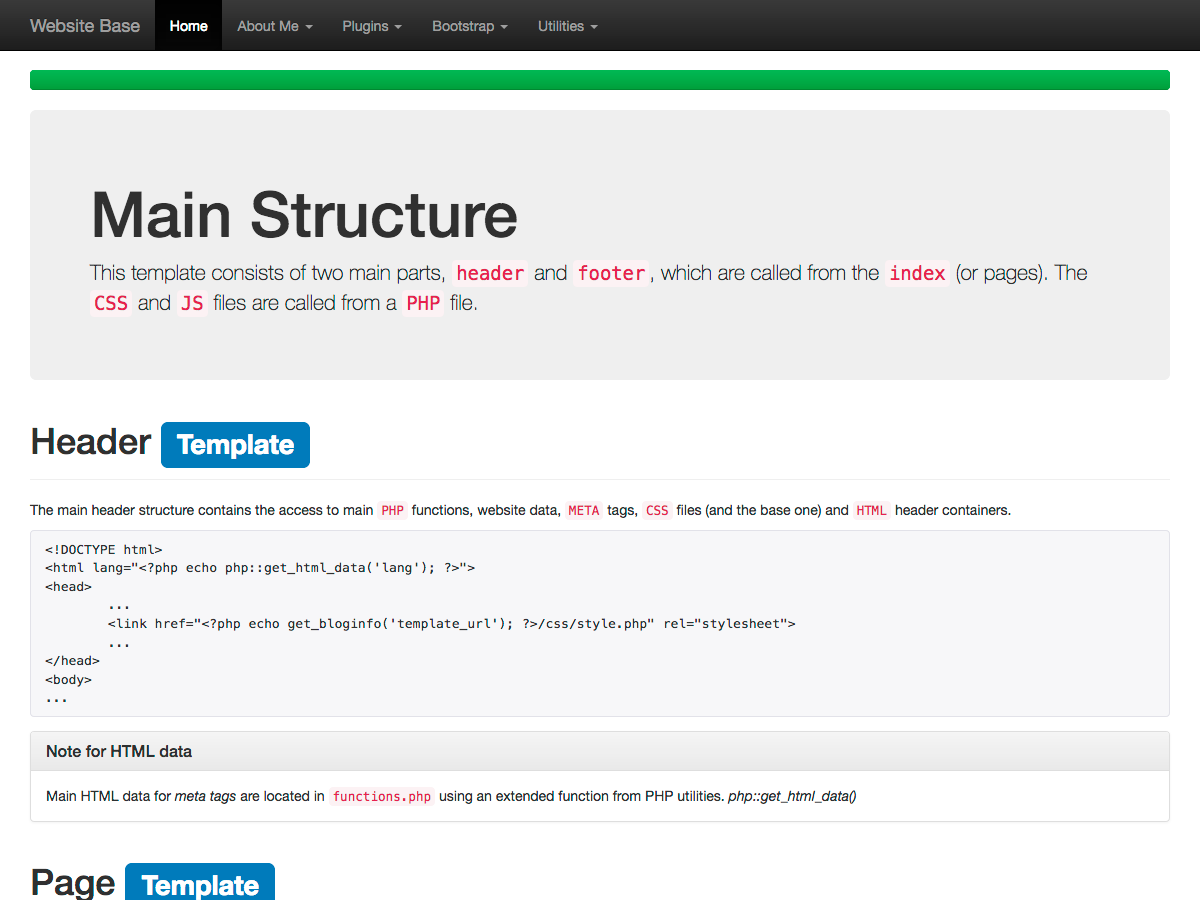
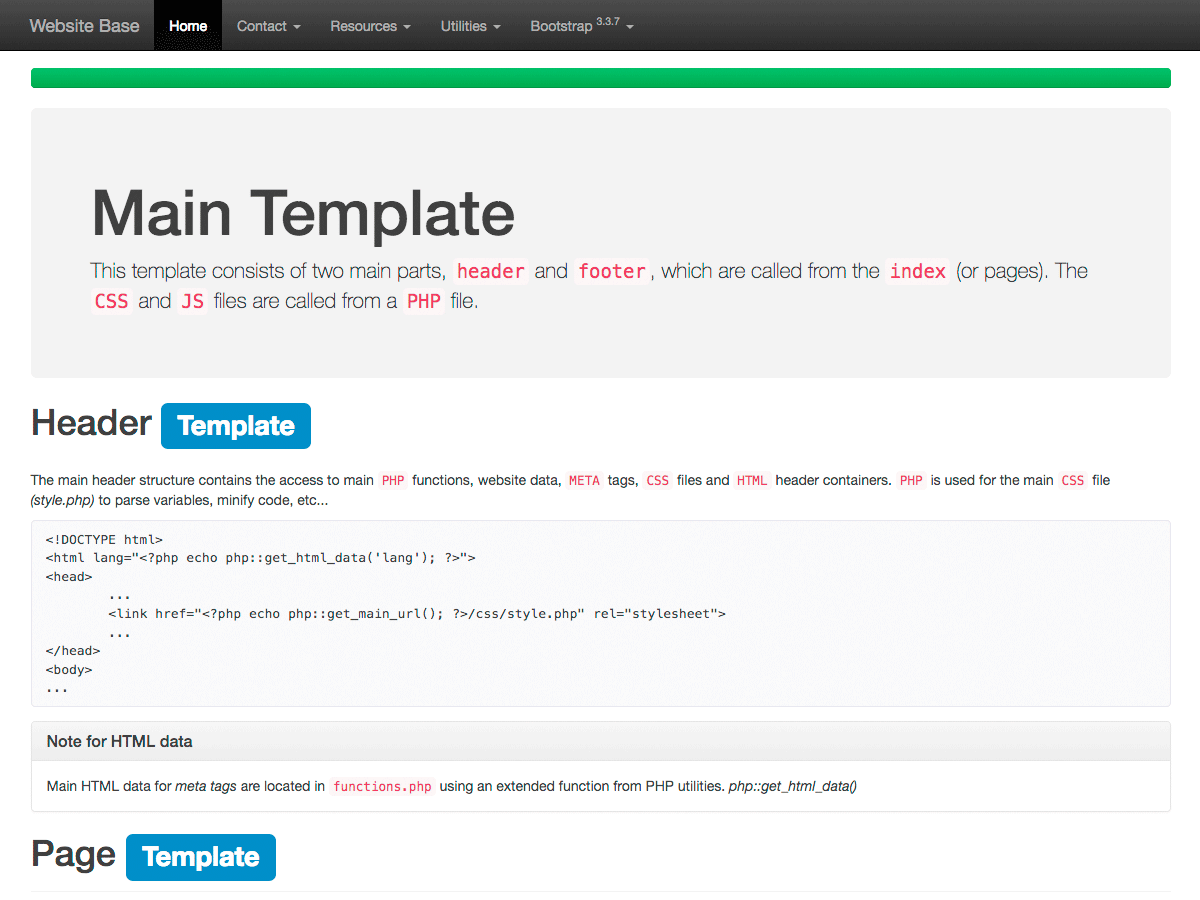
[all] info updates and examples revision

diff --git a/laravel/gulpfile.js b/laravel/gulpfile.js
@@ -3,12 +3,14 @@
  * Version 2.0
  * TriForce - Matías Silva
  * 
- * Site:     http://dev.gznetwork.com/websitebase
- * Issues:   https://github.com/triforcex/websitebase
+ * Site:     https://dev.gznetwork.com/websitebase
+ * Source:   https://github.com/triforcex/websitebase
  * 
  */
 
+//Main assets folder
 var jsUrl = '/assets';
+//Replacements
 var replacementsCSS = [
 	//Global
 	['@global-url' , jsUrl],
@@ -34,10 +36,12 @@ var replacementsJS = [
 	['@screen-full-hd' 		, '1920'], 
 ];
 
-//var gulpBackCSSFiles = [];
+//Replace back-end files
+/*var gulpBackCSSFiles = [];
 
-//var gulpBackJSFiles = [];
+var gulpBackJSFiles = [];*/
 
+//Replace front-end files
 var gulpFrontCSSFiles = [
 						'resources/assets/css/style-base.css',
 						'resources/assets/css/style-fonts.css',
@@ -45,6 +49,7 @@ var gulpFrontCSSFiles = [
 						];
 					
 var gulpFrontJSFiles = [
+						'resources/assets/js/app-lang.js',
 						'resources/assets/js/app-base.js',
 						'resources/assets/js/app-ready.js',
 						'resources/assets/js/app-load.js',
@@ -65,16 +70,18 @@ var elixir = require('laravel-elixir');
 
 require('laravel-elixir-replace');
 
-//elixir(function(mix){
-//	
-//	console.log('[ -------- CSS & JS Compile (Backend) -------- ]');
-//	
-//	mix.less('app.less')
-//		.coffee('app.coffee')
-//		.scripts(gulpBackJSFiles, 'public/js/vendor.js')
-//		.styles(gulpBackCSSFiles, 'public/css/vendor.css');
-//});
+//Parse back-end files
+/*elixir(function(mix){
+	
+	console.log('[ -------- CSS & JS Compile (Backend) -------- ]');
+	
+	mix.less('app.less')
+		.coffee('app.coffee')
+		.scripts(gulpBackJSFiles, 'public/js/vendor.js')
+		.styles(gulpBackCSSFiles, 'public/css/vendor.css');
+});*/
 
+//Parse front-end Files
 elixir(function(mix){
 	
 	console.log('[ -------- CSS & JS Compile (Frontend) -------- ]');
@@ -85,7 +92,6 @@ elixir(function(mix){
 		.replace('public/assets/js/all.js', replacementsJS);
 	
 });
-
 
 /*
  * Custom Watch Method for Frontend

diff --git a/wordpress/wp-content/themes/websitebase/style.css b/wordpress/wp-content/themes/websitebase/style.css
@@ -3,11 +3,11 @@ Theme Name: Website Base
 Theme URI: https://dev.gznetwork.com/websotebase
 Author: TriForce
 Author URI: https://github.com/triforcex/websitebase
-Description: Website based on Bootstrap with some CSS/JS/PHP improvements
-Version: 1.0
+Description: Base structure for web sites with reusable parts of source code or functions mainly based on Bootstrap and another libraries.
+Version: 2.0
 License: Public
 License URI: https://github.com/triforcex/websitebase
-Tags: html, jquery, javascript, php, responsive, css3
+Tags: html, jquery, javascript, php, responsive, css, css3, bootstrap
 Text Domain: websitebase
 
 This theme, like WordPress, is licensed under the GPL.

diff --git a/standalone/index.php b/standalone/index.php
@@ -102,10 +102,10 @@
 		
 		<!-- ******** LOADING BAR ******** -->
 		
-		<!-- ******** STRUCTURE EXAMPLES ******** -->
+		<!-- ******** TEMPLATE EXAMPLES ******** -->
 		
 		<div class="jumbotron">
-			<h1>Main Structure</h1>
+			<h1>Main Template</h1>
 			<p>This template consists of two main parts, <code>header</code> and <code>footer</code>, which are called from the <code>index</code> (or pages). The <code>CSS</code> and <code>JS</code> files are called from a <code>PHP</code> file.</p>
 		</div>
 		
@@ -113,14 +113,14 @@
 		<div class="page-header">
 			<h1>Header <span class="label label-primary">Template</span></h1>
 		</div>
-		<p>The main header structure contains the access to main <code>PHP</code> functions, website data, <code>META</code> tags, <code>CSS</code> files (and the base one) and <code>HTML</code> header containers.</p>
+		<p>The main header structure contains the access to main <code>PHP</code> functions, website data, <code>META</code> tags, <code>CSS</code> files and <code>HTML</code> header containers. <code>PHP</code> is used for the main <code>CSS</code> file <i>(style.php)</i> to parse variables, minify code, etc...</p>
 		
 		<figure class="highlight">
 			<pre><code class="language-html" data-lang="html">&lt;!DOCTYPE html&gt;
 &lt;html lang="&lt;?php echo php::get_html_data('lang'); ?&gt;"&gt;
 &lt;head&gt;
 	...
-	&lt;link href="&lt;?php echo get_bloginfo('template_url'); ?&gt;/css/style.php" rel="stylesheet"&gt;
+	&lt;link href="&lt;?php echo php::get_main_url(); ?&gt;/css/style.php" rel="stylesheet"&gt;
 	...
 &lt;/head&gt;<br>&lt;body&gt;<br>...</code></pre>
 		</figure>
@@ -143,18 +143,18 @@
 		<p>The main page (or index) structure contains <code>HTML</code> contents and access to the main <code>header</code> and <code>footer</code> files.</p>
 		
 		<figure class="highlight">
-			<pre><code class="language-html" data-lang="html">&lt;?php get_header(); ?&gt;<br>&lt;div class="content"&gt;<br>...<br>&lt;/div&gt;<br>&lt;?php get_footer(); ?&gt;</code></pre>
+			<pre><code class="language-html" data-lang="html">&lt;?php include('header.php'); ?&gt;<br>&lt;div class="content"&gt;<br>...<br>&lt;/div&gt;<br>&lt;?php include('footer.php'); ?&gt;</code></pre>
 		</figure>
 		
 		<!-- Footer example -->
 		<div class="page-header">
 			<h1>Footer <span class="label label-primary">Template</span></h1>
 		</div>
-		<p>The main footer structure contains the access to <code>JS</code> files (and the base one) and <code>HTML</code> footer containers. If you want use another language for JS strings, just add <code>?lang=code</code> after <b>app.php</b> <i>(For example: <b>app.php?lang=es</b> for Spanish)</i>, by default is <b>English (en)</b>. Also if you will work with two languages i recommend you to use <b>cookies</b> to set different URL's. For more info read the file <b>app.php</b></p>
+		<p>The main footer structure contains the access to <code>JS</code> files (included the base one) and <code>HTML</code> footer containers. <code>PHP</code> is used for the main <code>CSS</code> file <i>(app.php)</i> to parse variables, minify code, etc...</p>
 		
 		<figure class="highlight">
 			<pre><code class="language-html" data-lang="html">...<br>&lt;!-- Main JS File --&gt;
-&lt;script src="&lt;?php echo get_bloginfo('template_url'); ?&gt;/js/app.php"&gt;&lt;/script&gt;
+&lt;script src="&lt;?php echo php::get_main_url(); ?&gt;/js/app.php"&gt;&lt;/script&gt;
 ...
 &lt;/body&gt;
 &lt;/html&gt;</code></pre>
@@ -166,7 +166,7 @@
 				<h3 class="panel-title">Note for main PHP Functions</h3>
 			</div>
 			<div class="panel-body">
-				You can use the PHP functions from the main library like <i>php::function()</i>, If you will use Wordpress (or another CMS) is highly recommended to use their main functions instead the base here. For example use <code>get_bloginfo('template_url')</code> instead <code>php::get_main_url()</code>
+				You can use the PHP functions from the main library like <i>php::function()</i>, If you will use <b>Wordpress</b> (or another CMS) is highly recommended to use their main functions instead the base here. For example for <b>Wordpress</b> use <code>get_bloginfo('template_url')</code> instead <code>php::get_main_url()</code> and <code>get_header()</code>, <code>get_footer()</code> instead <code>include('header.php')</code>, <code>include('footer.php')</code>
 			</div>
 		</div>
 		</p>
@@ -184,8 +184,19 @@
 //Show current date will return: <?php echo php::show_date(false,'F j l, Y, g:i a'); ?><br>&lt;?php echo php::show_date(false,'F j l, Y, g:i a'); ?&gt;</code></pre>
 			</figure>
 		</div>
+
+		<p>
+		<div class="panel panel-default">
+			<div class="panel-heading">
+				<h3 class="panel-title">Note to begin a website</h3>
+			</div>
+			<div class="panel-body">
+				If you want to start a new website using this, i recommend to delete the <b>example code</b>. For <code>HTML</code> open <b>index.php</b> and delete the <b>nav menu</b> <i>(first &lt;nav&gt; tag)</i> and remove the class <b>theme-showcase</b> from the <b>container</b> element <i>(&lt;div class="container"&gt;)</i>. For <code>CSS</code> delete the file <b>style-extras.css</b> and open <b>style-extras.php</b> and delete or comment the included <b>style-example.css</b> line <i>('../css/style-example.css')</i>. Finally for <code>JS</code> open <b>app-ready.js</b>, <b>app-load.js</b> and <b>app-responsive.js</b> and delete or comment all code examples <i>(Beginning with //Example ...)</i>
+			</div>
+		</div>
+		</p>
 		
-		<!-- ******** STRUCTURE EXAMPLES ******** -->
+		<!-- ******** TEMPLATE EXAMPLES ******** -->
 		
 		<p>&nbsp;</p>
 		
@@ -228,7 +239,7 @@
 			</tbody>
 		</table>
 		<figure class="highlight">
-			<pre><code class="language-html" data-lang="html">$cssFiles = array(
+			<pre><code class="language-html" data-lang="html">$cssMinify = true;<br>$cssFiles = array(
 		  $cssUrl.'/css/style-base.css',
 		  $cssUrl.'/css/style-fonts.css',
 		  $cssUrl.'/css/style-theme.css',
@@ -293,7 +304,7 @@
 			</tbody>
 		</table>
 		<figure class="highlight">
-			<pre><code class="language-html" data-lang="html">$jsFiles = array(
+			<pre><code class="language-html" data-lang="html">$jsMinify = true;<br>$jsFiles = array(
 		  $jsUrl.'/js/app-lang.js',
 		  $jsUrl.'/js/app-base.js',
 		  $jsUrl.'/js/app-ready.js',

diff --git a/wordpress/wp-content/themes/websitebase/index.php b/wordpress/wp-content/themes/websitebase/index.php
@@ -102,10 +102,10 @@
 		
 		<!-- ******** LOADING BAR ******** -->
 		
-		<!-- ******** STRUCTURE EXAMPLES ******** -->
+		<!-- ******** TEMPLATE EXAMPLES ******** -->
 		
 		<div class="jumbotron">
-			<h1>Main Structure</h1>
+			<h1>Main Template</h1>
 			<p>This template consists of two main parts, <code>header</code> and <code>footer</code>, which are called from the <code>index</code> (or pages). The <code>CSS</code> and <code>JS</code> files are called from a <code>PHP</code> file.</p>
 		</div>
 		
@@ -113,14 +113,14 @@
 		<div class="page-header">
 			<h1>Header <span class="label label-primary">Template</span></h1>
 		</div>
-		<p>The main header structure contains the access to main <code>PHP</code> functions, website data, <code>META</code> tags, <code>CSS</code> files (and the base one) and <code>HTML</code> header containers.</p>
+		<p>The main header structure contains the access to main <code>PHP</code> functions, website data, <code>META</code> tags, <code>CSS</code> files and <code>HTML</code> header containers. <code>PHP</code> is used for the main <code>CSS</code> file <i>(style.php)</i> to parse variables, minify code, etc...</p>
 		
 		<figure class="highlight">
 			<pre><code class="language-html" data-lang="html">&lt;!DOCTYPE html&gt;
 &lt;html lang="&lt;?php echo php::get_html_data('lang'); ?&gt;"&gt;
 &lt;head&gt;
 	...
-	&lt;link href="&lt;?php echo get_bloginfo('template_url'); ?&gt;/css/style.php" rel="stylesheet"&gt;
+	&lt;link href="&lt;?php echo php::get_main_url(); ?&gt;/css/style.php" rel="stylesheet"&gt;
 	...
 &lt;/head&gt;<br>&lt;body&gt;<br>...</code></pre>
 		</figure>
@@ -143,18 +143,18 @@
 		<p>The main page (or index) structure contains <code>HTML</code> contents and access to the main <code>header</code> and <code>footer</code> files.</p>
 		
 		<figure class="highlight">
-			<pre><code class="language-html" data-lang="html">&lt;?php get_header(); ?&gt;<br>&lt;div class="content"&gt;<br>...<br>&lt;/div&gt;<br>&lt;?php get_footer(); ?&gt;</code></pre>
+			<pre><code class="language-html" data-lang="html">&lt;?php include('header.php'); ?&gt;<br>&lt;div class="content"&gt;<br>...<br>&lt;/div&gt;<br>&lt;?php include('footer.php'); ?&gt;</code></pre>
 		</figure>
 		
 		<!-- Footer example -->
 		<div class="page-header">
 			<h1>Footer <span class="label label-primary">Template</span></h1>
 		</div>
-		<p>The main footer structure contains the access to <code>JS</code> files (and the base one) and <code>HTML</code> footer containers. If you want use another language for JS strings, just add <code>?lang=code</code> after <b>app.php</b> <i>(For example: <b>app.php?lang=es</b> for Spanish)</i>, by default is <b>English (en)</b>. Also if you will work with two languages i recommend you to use <b>cookies</b> to set different URL's. For more info read the file <b>app.php</b></p>
+		<p>The main footer structure contains the access to <code>JS</code> files (included the base one) and <code>HTML</code> footer containers. <code>PHP</code> is used for the main <code>CSS</code> file <i>(app.php)</i> to parse variables, minify code, etc...</p>
 		
 		<figure class="highlight">
 			<pre><code class="language-html" data-lang="html">...<br>&lt;!-- Main JS File --&gt;
-&lt;script src="&lt;?php echo get_bloginfo('template_url'); ?&gt;/js/app.php"&gt;&lt;/script&gt;
+&lt;script src="&lt;?php echo php::get_main_url(); ?&gt;/js/app.php"&gt;&lt;/script&gt;
 ...
 &lt;/body&gt;
 &lt;/html&gt;</code></pre>
@@ -166,7 +166,7 @@
 				<h3 class="panel-title">Note for main PHP Functions</h3>
 			</div>
 			<div class="panel-body">
-				You can use the PHP functions from the main library like <i>php::function()</i>, If you will use Wordpress (or another CMS) is highly recommended to use their main functions instead the base here. For example use <code>get_bloginfo('template_url')</code> instead <code>php::get_main_url()</code>
+				You can use the PHP functions from the main library like <i>php::function()</i>, If you will use <b>Wordpress</b> (or another CMS) is highly recommended to use their main functions instead the base here. For example for <b>Wordpress</b> use <code>get_bloginfo('template_url')</code> instead <code>php::get_main_url()</code> and <code>get_header()</code>, <code>get_footer()</code> instead <code>include('header.php')</code>, <code>include('footer.php')</code>
 			</div>
 		</div>
 		</p>
@@ -184,8 +184,19 @@
 //Show current date will return: <?php echo php::show_date(false,'F j l, Y, g:i a'); ?><br>&lt;?php echo php::show_date(false,'F j l, Y, g:i a'); ?&gt;</code></pre>
 			</figure>
 		</div>
+
+		<p>
+		<div class="panel panel-default">
+			<div class="panel-heading">
+				<h3 class="panel-title">Note to begin a website</h3>
+			</div>
+			<div class="panel-body">
+				If you want to start a new website using this, i recommend to delete the <b>example code</b>. For <code>HTML</code> open <b>index.php</b> and delete the <b>nav menu</b> <i>(first &lt;nav&gt; tag)</i> and remove the class <b>theme-showcase</b> from the <b>container</b> element <i>(&lt;div class="container"&gt;)</i>. For <code>CSS</code> delete the file <b>style-extras.css</b> and open <b>style-extras.php</b> and delete or comment the included <b>style-example.css</b> line <i>('../css/style-example.css')</i>. Finally for <code>JS</code> open <b>app-ready.js</b>, <b>app-load.js</b> and <b>app-responsive.js</b> and delete or comment all code examples <i>(Beginning with //Example ...)</i>
+			</div>
+		</div>
+		</p>
 		
-		<!-- ******** STRUCTURE EXAMPLES ******** -->
+		<!-- ******** TEMPLATE EXAMPLES ******** -->
 		
 		<p>&nbsp;</p>
 		
@@ -228,7 +239,7 @@
 			</tbody>
 		</table>
 		<figure class="highlight">
-			<pre><code class="language-html" data-lang="html">$cssFiles = array(
+			<pre><code class="language-html" data-lang="html">$cssMinify = true;<br>$cssFiles = array(
 		  $cssUrl.'/css/style-base.css',
 		  $cssUrl.'/css/style-fonts.css',
 		  $cssUrl.'/css/style-theme.css',
@@ -293,7 +304,7 @@
 			</tbody>
 		</table>
 		<figure class="highlight">
-			<pre><code class="language-html" data-lang="html">$jsFiles = array(
+			<pre><code class="language-html" data-lang="html">$jsMinify = true;<br>$jsFiles = array(
 		  $jsUrl.'/js/app-lang.js',
 		  $jsUrl.'/js/app-base.js',
 		  $jsUrl.'/js/app-ready.js',

diff --git a/laravel/resources/views/home.blade.php b/laravel/resources/views/home.blade.php
@@ -19,7 +19,7 @@
 			<ul class="nav navbar-nav">
 				<li class="active"><a href="index.php">Home</a></li>
 				<li class="dropdown">
-					<a href="#" class="dropdown-toggle" data-toggle="dropdown" role="button" aria-expanded="false">About Me <span class="caret"></span></a>
+					<a href="#" class="dropdown-toggle" data-toggle="dropdown" role="button" aria-expanded="false">Contact <span class="caret"></span></a>
 					<ul class="dropdown-menu" role="menu">
 						<li><a href="https://github.com/TriForceX" target="_blank">GitHub</a></li>
 						<li><a href="http://stackoverflow.com/users/7613382/triforce" target="_blank">StackOverflow</a></li>

diff --git a/standalone/resources/php/main.php b/standalone/resources/php/main.php
@@ -4,11 +4,11 @@ namespace utilities;
 
 /*
  * PHP Functions Utilities
- * Version 1.0
- * © 2017 TriForce - Matías Silva
+ * Version 2.0
+ * TriForce - Matías Silva
  * 
- * Site:     http://dev.gznetwork.com/websitebase
- * Issues:   https://github.com/triforcex/websitebase
+ * Site:     https://dev.gznetwork.com/websitebase
+ * Source:   https://github.com/triforcex/websitebase
  * 
  */
 

diff --git a/wordpress/wp-content/themes/websitebase/resources/php/main.php b/wordpress/wp-content/themes/websitebase/resources/php/main.php
@@ -4,11 +4,11 @@ namespace utilities;
 
 /*
  * PHP Functions Utilities
- * Version 1.0
- * © 2017 TriForce - Matías Silva
+ * Version 2.0
+ * TriForce - Matías Silva
  * 
- * Site:     http://dev.gznetwork.com/websitebase
- * Issues:   https://github.com/triforcex/websitebase
+ * Site:     https://dev.gznetwork.com/websitebase
+ * Source:   https://github.com/triforcex/websitebase
  * 
  */
 

diff --git a/standalone/functions.php b/standalone/functions.php
@@ -2,7 +2,7 @@
 
 /*
  * PHP Main Stuff
- * © 2017 TriForce - Matías Silva
+ * TriForce - Matías Silva
  *
  * This file calls the main PHP utilities and sets the main HTML data
  * also you can extend the functions below with your own ones

diff --git a/wordpress/wp-content/themes/websitebase/functions.php b/wordpress/wp-content/themes/websitebase/functions.php
@@ -2,7 +2,7 @@
 
 /*
  * PHP Main Stuff
- * © 2017 TriForce - Matías Silva
+ * TriForce - Matías Silva
  *
  * This file calls the main PHP utilities and sets the main HTML data
  * also you can extend the functions below with your own ones

diff --git a/README.md b/README.md
@@ -29,7 +29,7 @@ Base structure for web sites with reusable parts of source code or functions mai
 - PHP main utility class
 - CSS & JS files built in PHP (with code minification)
 - Custom htaccess file with force HTTPS & WWW options
-- Features in PHP:
+- PHP Features:
 	- Global variables for CSS & JS usage
 	- Minify CSS, JS and HTML
 	- PHP error handle & warnings
@@ -48,7 +48,7 @@ Base structure for web sites with reusable parts of source code or functions mai
 	- Custom show date format
 	- Get YouTube, Vimeo and Facebook ID and embed code URL
 	- Custom paginator
-- Features in JS:
+- JS Features:
 	- Custom language support
 	- Check attr function
 	- Check outer width & height with padding/margin
@@ -76,7 +76,7 @@ Base structure for web sites with reusable parts of source code or functions mai
 	- Window pop-up function
 	- Map launch function for Google Maps and Waze
 	- Check validations for home page, mobile and navigators
-- Fe-tures in CSS:
+- CSS Features:
 	- Custom fade transition for Bootstrap carousel
 	- Disable shadows for Bootstrap carousel controls
 	- Custom datepicker colors
@@ -87,6 +87,7 @@ Base structure for web sites with reusable parts of source code or functions mai
 	- Custom padding, margin, width and height
 	- Custom vertical align classes
 	- Collection of custom CSS3 hover effects
+	- Included "BebasNeue" example font 
 - Wordpress Features:
 	- Custom database configuration for wp-config
 	- Cron enable/disable
